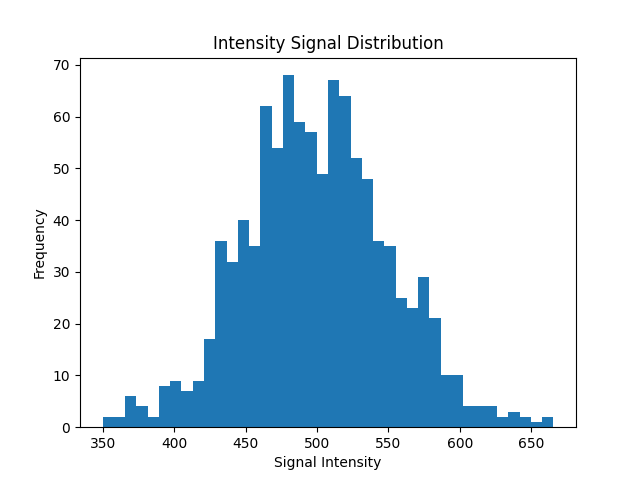
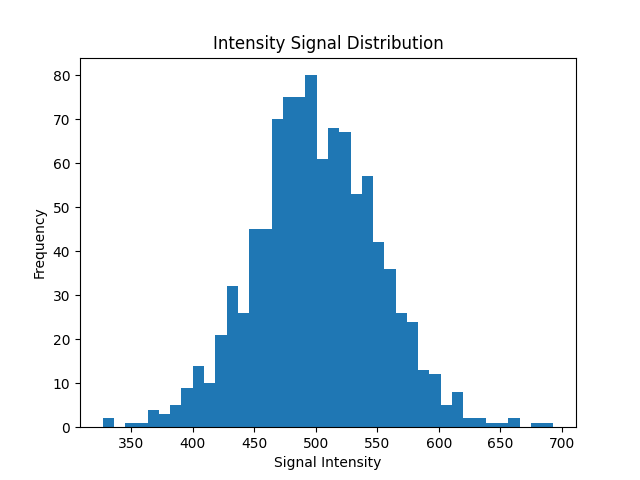
termino modulo 8

diff --git a/Python Module 8/ex1/loading.py b/Python Module 8/ex1/loading.py
@@ -1,35 +1,25 @@
 import importlib
+from typing import Any
 
-def main() -> None:
-    print("LOADING STATUS: Loading programs...")
-    imports = ["pandas", "numpy", "requests", "matplotlib", "matplotlib.pyplot"]
-    modules = {}
-    for i in imports:
-        try:
-            module = importlib.import_module(i)
-            modules[i] = module
-        except ModuleNotFoundError:
-            modules[i] = None
-    modules_check = True
-    print("Checking dependencies:")
-    if modules["pandas"] is not None:
-        print(f"[OK] pandas ({modules['pandas'].__version__}) - Data manipulation ready")
-    else:
-        modules_check = False
-    if modules["numpy"] is not None:
-        print(f"[OK] numpy ({modules['numpy'].__version__}) - Numerical computation ready")
-    else:
-        modules_check = False
-    if modules["requests"] is not None:
-        print(f"[OK] requests ({modules['requests'].__version__}) - Network access ready")
-    if modules["matplotlib"] is not None:
-        print(f"[OK] matplotlib ({modules['matplotlib'].__version__}) - Visualization ready")
-    else:
-        modules_check = False
-    if modules_check is True:
+
+def print_error(modules: dict[str, Any]) -> None:
+    for key, value in modules.items():
+        if value is None:
+            print()
+            print(f"[ERROR] {key} is missing")
+            print("Install with pip:")
+            print(f"pip install {key}")
+            print()
+            print("or install all dependencies:")
+            print("pip install -r requirements.txt")
+            break
+
+
+def create_visualization(modules: dict[str, Any], modules_check: bool) -> None:
+    if modules_check:
         print("Analyzing Matrix data...")
         intensity_data = modules["numpy"].random.normal(500, 50, 1000)
-        data = {"intensity" : intensity_data}
+        data = {"intensity": intensity_data}
         print("Processing 1000 data points...")
         data_table = modules["pandas"].DataFrame(data)
         print("Generating visualization...")
@@ -43,15 +33,39 @@ def main() -> None:
         print("Analysis complete!")
         print("Results saved to: matrix_analysis.png")
     else:
-        for key, value in modules.items():
-            if value is None:
-                print()
-                print(f"[ERROR] {key} is missing")
-                print("Install with pip:")
-                print(f"pip install {key}")
-                print()
-                print("or install all dependencies:")
-                print("pip install -r requirements.txt")
+        print_error(modules)
+
+
+def main() -> None:
+    print("LOADING STATUS: Loading programs...")
+    imports = ["pandas", "numpy", "requests",
+               "matplotlib", "matplotlib.pyplot"]
+    modules: dict[str, Any] = {}
+    for i in imports:
+        try:
+            module = importlib.import_module(i)
+            modules[i] = module
+        except ModuleNotFoundError:
+            modules[i] = None
+    required = ["pandas", "numpy", "matplotlib"]
+    modules_check = True
+    for name in required:
+        if modules[name] is None:
+            modules_check = False
+    print("Checking dependencies:")
+    if modules["pandas"] is not None:
+        print(f"[OK] pandas ({modules['pandas'].__version__})"
+              " - Data manipulation ready")
+    if modules["numpy"] is not None:
+        print(f"[OK] numpy ({modules['numpy'].__version__})"
+              " - Numerical computation ready")
+    if modules["requests"] is not None:
+        print(f"[OK] requests ({modules['requests'].__version__})"
+              " - Network access ready")
+    if modules["matplotlib"] is not None:
+        print(f"[OK] matplotlib ({modules['matplotlib'].__version__})"
+              " - Visualization ready")
+    create_visualization(modules, modules_check)
 
 
 if __name__ == "__main__":

diff --git a/Python Module 8/ex2/oracle.py b/Python Module 8/ex2/oracle.py
@@ -1,0 +1,62 @@
+import os
+import sys
+from dotenv import load_dotenv
+
+
+def load_config():
+    load_dotenv()
+    required_vars = ["MATRIX_MODE",
+                 "DATABASE_URL",
+                 "API_KEY",
+                 "LOG_LEVEL",
+                 "ZION_ENDPOINT"]
+    missing = []
+    for var in required_vars:
+        try:
+            os.environ[var]
+        except KeyError:
+            missing.append(var)
+    if missing:
+        print("Missing variables:")
+        print("\n".join(missing))
+        sys.exit(1)
+    config: dict[str, str] = {}
+    for var in required_vars:
+        config[var] = os.environ[var]
+    return config
+
+def main() -> None:
+    print("ORACLE STATUS: Reading the Matrix...")
+    config = load_config()
+    print("Configuration loaded:")
+    print(f"Mode: {config['MATRIX_MODE'].lower()}")
+    if config["MATRIX_MODE"] == "development":
+        print("Database: Connected to local instance")
+    else:
+        print("Database: Connected to production instance")
+
+    if config["API_KEY"]:
+        print("API Access: Authenticated")
+
+    print(f"Log Level: {config['LOG_LEVEL']}")
+
+    if config["ZION_ENDPOINT"]:
+        print("Zion Network: Online")
+    print("\nEnvironment security check:")
+    print("[OK] No hardcoded secrets detected")
+    print("[OK] .env file properly configured")
+    print("[OK] Production overrides available")
+    print("\nThe Oracle sees all configurations.")
+
+
+if __name__ == "__main__":
+    main()
+
+# try:
+# 	matrix_mode = os.environ["MATRIX_MODE"]
+# 	database_url = os.environ["DATABASE_URL"]
+# 	api_key = os.environ["API_KEY"]
+# 	log_level = os.environ["LOG_LEVEL"]
+# 	zion_endpoint = os.environ["ZION_ENDPOINT"]
+# except KeyError as e:
+# 	print(f"Missing key {e}")
